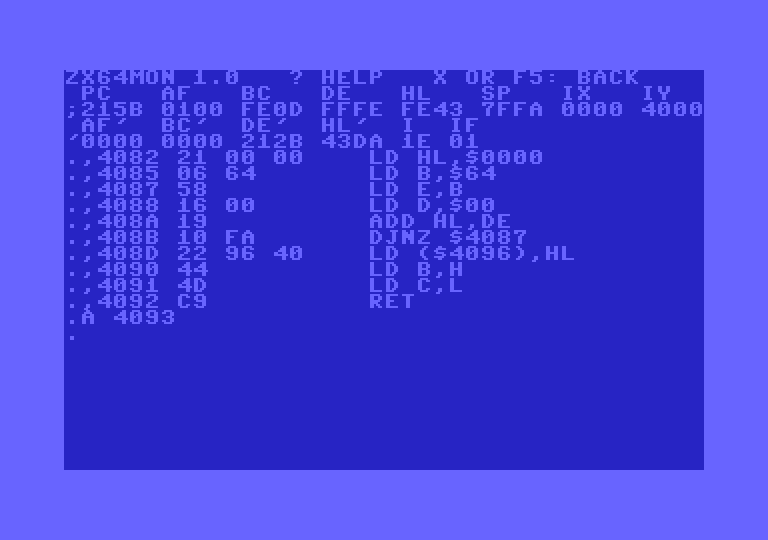
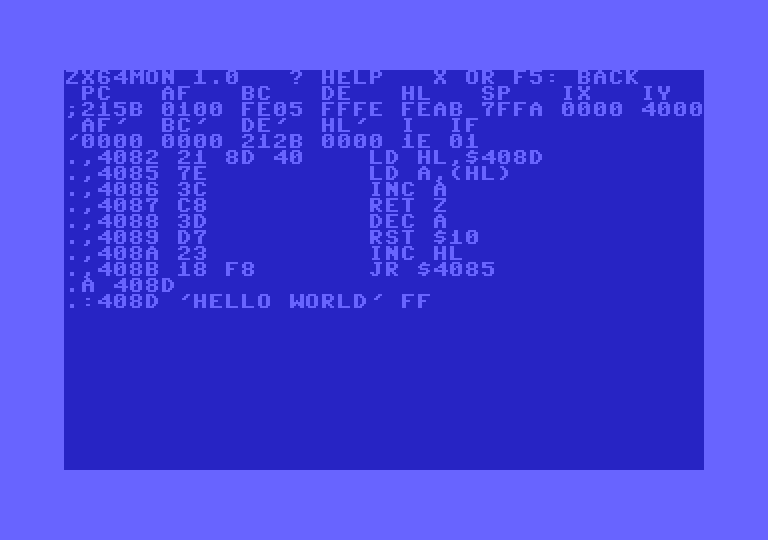
Manual: hello world in place of the 5050 example
- The REM-line example prints HELLO WORLD: a RST $10 loop over the
  text, entered with :408D 'HELLO WORLD' FF. Why RST $10 (the ZX81's
  CHROUT), FF, RAND USR; what LIST shows (FF as COPY, $7E hiding code).
- The breakpoint walk on its RST $10; S into the ROM at $0010.
- The ROM's string printer, $0B6B (DE, BC), as the short version.
- make test runs both versions and the breakpoint walk as written.
- shots.py's asm scene, and its three screenshots, made again.

diff --git a/tools/simulate.py b/tools/simulate.py
@@ -1568,6 +1568,53 @@ def main():
           listed == "BREAKPOINTS 7003" and regs.startswith(";7003 02") and m.z.memory[0x7100] == 3
           and report(m) == "0/0", f"{listed!r} {regs[:10]!r} {report(m)}")
 
+    # the manual's hello world: a REM line, A, the text with :, RUN; then
+    # a breakpoint on its RST $10; then the ROM's own string printer
+    m = Machine(int_wired=True)
+    m.boot()
+    m.drive.files[b"ZX64MON"] = mon
+    m.drive.files[b"ZX64MON2"] = mon2
+    m.type("1 E " + " ".join("01234567890123456789012") + " NEWLINE")   # 1 REM ...
+    m.type("1 0 T SHIFT+NEWLINE L 1 6 5 1 4 NEWLINE")                   # 10 RAND USR 16514
+    m.tap("F5")
+    for line in ("A 4082 LD HL,$408D", "LD A,(HL)", "INC A", "RET Z", "DEC A", "RST $10", "INC HL",
+                 "JR $4085", "", ":408D 'HELLO WORLD' FF", "X"):
+        m.mtype(line + "\r", settle=20)
+    m.run(10)
+    r = enter(m, "R")
+    shown = m.screen()[0]
+    m.tap("F5")
+    m.mtype("B 4089\r")
+    m.mtype("X\r", settle=20)
+    m.type("R")
+    m.keys = {C64KEY[ZXKEY["NEWLINE"]]}
+    m.run(3)
+    m.keys = set()
+    m.run(30)
+    regs = [next((r for r in reversed(m.mscreen()) if r.startswith(";")), "")]
+    m.mtype("S\r", settle=20)                  # into the ROM
+    regs.append(next((r for r in reversed(m.mscreen()) if r.startswith(";")), ""))
+    m.mkey("DEL")                                # ".S" offered: INST/DEL it, then G
+    m.mtype("G\r", settle=30)
+    regs.append(next((r for r in reversed(m.mscreen()) if r.startswith(";")), ""))
+    m.mtype("B 4089\r")
+    m.mtype("G\r", settle=20)
+    m.until(m.ready, 300, "the ROM ready for a key")
+    m.run(3)
+    check("hello world as in the manual: A at $4082, :408D 'HELLO WORLD' FF, RUN; B 4089 stops at the "
+          "RST $10 with A = H, S: to $0010, G: again with E; B off, G: the rest",
+          shown == "HELLO WORLD" and r == "0/10" and regs[0].startswith(";4089 2D")
+          and regs[1].startswith(";0010 2D") and regs[2].startswith(";4089 2A") and m.screen()[0] == "HELLO WORLD"
+          and report(m) == "0/10",
+          f"{shown!r} {r} {regs} {m.screen()[0]!r} {report(m)}")
+    m.tap("F5")
+    for line in ("A 4082 LD DE,$408B", "LD BC,$000B", "JP $0B6B", "", ":408B 'HELLO WORLD", "", "X"):
+        m.mtype(line + "\r", settle=20)
+    m.run(10)
+    r = enter(m, "R")
+    check("and with the ROM's string printer: LD DE / LD BC / JP $0B6B", m.screen()[0] == "HELLO WORLD"
+          and r == "0/10", f"{m.screen()[0]!r} {r}")
+
     # ---- tools/pcheck.py, on a program made for it: each IN and OUT, and
     # what zx64 makes of it
     import pcheck

diff --git a/tools/shots.py b/tools/shots.py
@@ -216,18 +216,16 @@ def sc_monitor():
 
 
 def sc_asm():
-    """1 REM with room for code; A assembles; RUN; M and PEEK."""
+    """1 REM with room for hello world; A assembles, : the text; LIST; RUN; M."""
     m = machine()
     m.boot()
-    m.type("1 E " + " ".join("012345678901234567890123") + " NEWLINE")
-    m.type("1 0 P SHIFT+NEWLINE L 1 6 5 1 4 NEWLINE")              # 10 PRINT USR 16514
-    m.type("2 0 P SHIFT+NEWLINE O 1 6 5 3 4 SHIFT+K 2 5 6 SHIFT+B "
-           "SHIFT+NEWLINE O 1 6 5 3 5 NEWLINE")                      # 20 PRINT PEEK ...
+    m.type("1 E " + " ".join("01234567890123456789012") + " NEWLINE")
+    m.type("1 0 T SHIFT+NEWLINE L 1 6 5 1 4 NEWLINE")              # 10 RAND USR 16514
     m.run(5)
     m.tap("F5")
     m.run(60)
-    mon(m, "A 4082 LD HL,$0000", "LD B,$64", "LD E,B", "LD D,$00", "ADD HL,DE", "DJNZ $4087",
-        "LD ($4096),HL", "LD B,H", "LD C,L", "RET", "")
+    mon(m, "A 4082 LD HL,$408D", "LD A,(HL)", "INC A", "RET Z", "DEC A", "RST $10", "INC HL",
+        "JR $4085", "", ":408D 'HELLO WORLD' FF")
     shot(m, "asm")
     mon(m, "X")
     m.run(30)

diff --git a/docs/manual.md b/docs/manual.md
@@ -320,33 +320,40 @@ refuse the 6510's page and the I/O chips.
 
 The classic ZX81 way: a `REM` line at the start of the program holds the
 machine code. Its first byte after the `REM` is at 16514 (`$4082`), and
-`USR 16514` runs it, returning BC as the result.
+`USR 16514` runs it.
 
-This one adds 1 to 100 and leaves the sum in BC and in memory. First the
-room for it, 24 bytes of `REM`, and two lines to run it:
+Hello world. First the room for it, 23 bytes of `REM`, and a line to run
+it:
 
-    1 REM 012345678901234567890123
-    10 PRINT USR 16514
-    20 PRINT PEEK 16534+256*PEEK 16535
+    1 REM 01234567890123456789012
+    10 RAND USR 16514
 
 Then F5, and `A` at `$4082`. After each line the monitor offers the next
-address; RETURN on an empty one ends:
+address; RETURN on an empty one ends. Then the text, after the code:
 
-    A 4082 LD HL,$0000
-    LD B,$64
-    LD E,B
-    LD D,$00
-    ADD HL,DE
-    DJNZ $4087
-    LD ($4096),HL
-    LD B,H
-    LD C,L
-    RET
+    A 4082 LD HL,$408D
+    LD A,(HL)
+    INC A
+    RET Z
+    DEC A
+    RST $10
+    INC HL
+    JR $4085
+
+    :408D 'HELLO WORLD' FF
 
 <p align="center">
-  <img src="img/shot-asm.png" width="49%" alt="The assembler: each line turned into its address, bytes and instruction">
-  <img src="img/shot-rem.png" width="49%" alt="LIST: the REM line now shows the machine code as ZX81 characters and keywords">
+  <img src="img/shot-asm.png" width="49%" alt="The assembler: each line turned into its address, bytes and instruction, then the text">
+  <img src="img/shot-rem.png" width="49%" alt="LIST: 1 REM, the code as characters and keywords, HELLO WORLD and COPY">
 </p>
+
+`RST $10` is the ZX81's CHROUT: it prints the character in A, keywords
+and NEWLINE too, and keeps BC, DE and HL (it works in the other register
+set, with `EXX`). The text ends with `FF` (see [Text in
+memory](#text-in-memory)): `INC A` makes it 0, and `RET Z` goes back to
+BASIC. `USR` returns BC as its value; `RAND USR` throws it away, `PRINT
+USR` would print it after the text. Leave IY alone (the ROM needs
+`$4000` in it), and IX.
 
 The assembler takes Zilog's mnemonics as `D` writes them, numbers as
 `$12` or with a leading digit, `0DE` (a bare `DE` is the register). It
@@ -357,26 +364,45 @@ machine. A line from `D` changed on the screen and entered is assembled
 too.
 
 `X`, then `LIST`: the `REM` now holds the code, shown as ZX81 characters
-and keywords. `RUN` prints 5050 twice: once from BC, once from the two
-bytes at `$4096` (16534). `M 4082 4099` shows them as `BA 13`:
+and keywords, then `HELLO WORLD`, and the `FF` as `COPY` (the keyword
+with that code). Some of the code is missing: `$7E` marks a number in a
+BASIC line, and `LIST` skips the 5 bytes after it. `RUN` prints `HELLO
+WORLD`. `M 4082 4099` shows all the bytes, and the text:
 
 <p align="center">
-  <img src="img/shot-mon-m.png" width="70%" alt="M 4082 4099: the code, and BA 13 at 4096">
+  <img src="img/shot-mon-m.png" width="70%" alt="M 4082 4099: the code, then HELLO WORLD and FF">
 </p>
 
-To watch it run, set a breakpoint and step:
+To watch it run, set a breakpoint on the `RST $10`:
 
-    B 408D           a breakpoint after the loop
+    B 4089           a breakpoint on the RST $10
     X                back to BASIC; RUN
-                     the monitor opens at 408D: HL = 13BA
-    S                LD ($4096),HL, then the registers
-                     RETURN steps again; INST/DEL the S and G goes on
+                     the monitor opens at 4089: A = 2D, an H
+    G                on: it stops there again, A = 2A, an E
+    B 4089           the breakpoint off; G, and the rest is printed
 
-A breakpoint is a `RST $38` in place of the instruction's first byte;
-zx64's interrupt handler tells it from an interrupt. It works without
-the `/INT` wire too. The monitor puts the real bytes back while it's
-open, so `M` and `D` show the code as it is. Not possible: breakpoints in
-zx64 or the monitor (`$2000-$3FFF`), at `$0038`, or from `$C000` up.
+`S` steps one instruction instead; on the `RST $10` it goes into the
+ROM, at `$0010`. RETURN steps again; INST/DEL the `S`, and `G` goes on. A breakpoint is a `RST $38` in place of the
+instruction's first byte; zx64's interrupt handler tells it from an
+interrupt. It works without the `/INT` wire too. The monitor puts the
+real bytes back while it's open, so `M` and `D` show the code as it is.
+Not possible: breakpoints in zx64 or the monitor (`$2000-$3FFF`), at
+`$0038`, or from `$C000` up.
+
+The ROM has a string printer too, the one `PRINT "..."` uses: BC
+characters from DE, at `$0B6B`. With it, hello world is three
+instructions and needs no end mark:
+
+    A 4082 LD DE,$408B
+    LD BC,$000B
+    JP $0B6B
+
+    :408B 'HELLO WORLD
+
+`$000B` is the length, 11. The `JP` lets the ROM's routine return to
+BASIC itself. Unlike the C64's kernal table, `$0B6B` is just where the
+routine is in this ROM, not an entry point anyone promised to keep;
+`RST $10`'s address is fixed by the Z80 itself.
 
 ### Reading the ROM
 

diff --git a/docs/testing.md b/docs/testing.md
@@ -8,7 +8,7 @@ wire, SD2IEC. Emulator: VICE (`x64sc -cpmcart`, 3.7.1 and 3.10).
 `tools/simulate.py` runs the patched ROM and zx64 on a Z80 emulator and
 the 6510 loader on a 6502 emulator, switching as the cartridge does,
 with a fake VIC, CIA, colour RAM, kernal and drive. It types and reads
-the screen. 97 checks, with and without `/INT`, covering:
+the screen. 99 checks, with and without `/INT`, covering:
 
 - boot, typing, type-ahead and F1 (TEST typed fast: no ghost F), the
   cursor keys, F2/F3/F5/F7; no cartridge: a message and back to BASIC
@@ -82,6 +82,7 @@ Not yet tried there (after 1.0):
 - [ ] An `M` line's characters changed: `PRINT` to `PRONT` in the ROM
 - [ ] `:7000 'THE QUICK BROWN FOX JUMPS`, then the offered `:7019 '` line;
       the bottom row clear after a `:` line scrolls the screen
+- [ ] The manual's hello world, both ways, and its breakpoint on `RST $10`
 - [ ] A C64 reset with the monitor in RAM, BASIC text on the screen, then
       zx64 and F5: " LOADING ZX64MON", then a clear monitor screen
 

diff --git a/README.md b/README.md
@@ -41,7 +41,7 @@ On the C64: `LOAD "ZX81",8`, `RUN`. Then `LOAD "MAZOGS"`, as from tape.
 - `tools/pcheck.py`: warns about games that won't work, as they go on
   the disk.
 - `make test`: both CPUs in emulators, with the real hardware's quirks
-  modelled; 97 checks.
+  modelled; 99 checks.
 
 Not possible: hi-res, WRX and other display tricks.
 
